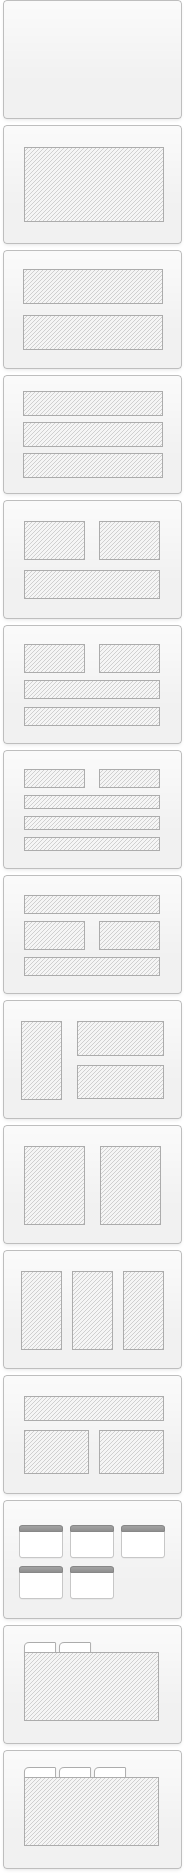
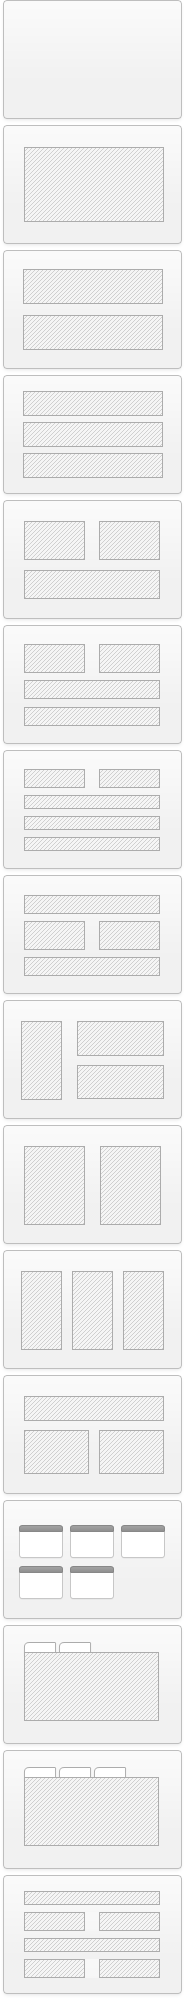
add lyout for template analytics

Changed region(s): [[0.0811, 0.0619, 0.8919, 0.9899]]

diff --git a/platform-ui-skin/src/main/webapp/skin/less/component/Wizard/Style.less b/platform-ui-skin/src/main/webapp/skin/less/component/Wizard/Style.less
@@ -167,6 +167,12 @@ Inc., 51 Franklin Street, Fifth Floor, Boston, MA  02110-1301, USA.
       		background-position: center -1125px;
 		}
 
+		.AnalyticsLayout {
+			.commonLayout;
+			margin: auto;
+			background-position: center -1875px;
+		}
+
 		.ThreeColumnsLayout {
 			.commonLayout;
 			margin: auto;
